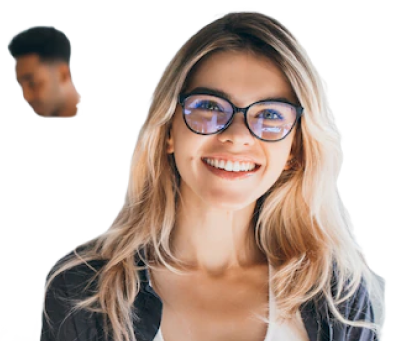
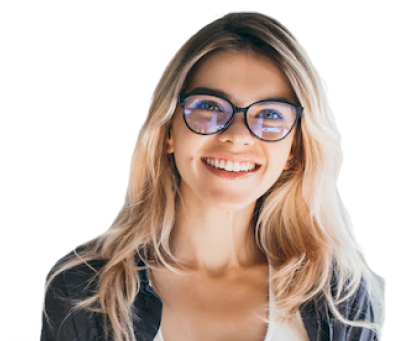
create and style for experts secton

Changed region(s): [[0.0, 0.0587, 0.2069, 0.3519]]

diff --git a/src/components/experts.html b/src/components/experts.html
@@ -1,0 +1,36 @@
+<section class="experts-contain">
+    <div class="container">
+        <div class="experts-container">
+            <div class="experts-avata">
+                <figure>
+                    <img src="../assets/img/Experts/avatarimg.png" alt="experts avata">
+                </figure>
+            </div>
+            <div class="experts-content">
+                <h4>
+                    We are <b>Experts <img src="../assets/img/Experts/Vector 27.png" alt="experts avata"></b> Learning Institution
+                </h4>
+                <span>
+                    Lorem ipsum dolor sit amet, consectetur adipiscing elit. Sit elit, bibendum volutpat platea mi,
+                    adipiscing eget magna.
+                    Eu nulla ut urna venenatis velit et tincidunt. Id vitae velit
+                </span>
+                <include src="./components/button.html" locals='{
+                                        "class" : "buttonD",
+                                        "backgroundColor" : "$borderbtn-color",
+                                        "color" : "$text-color",
+                                        "button" : "Enroll now"
+                                        }'>
+                </include>
+            </div>
+        </div>
+    </div>
+    
+    <!-- <div class="di">
+        <include src="./components/categories-list.html"  locals='{
+                  "content": "live chat",
+                  "value": "../assets/img/Experts/avatar.png",
+                  "button": "View Course"
+                  }' /></include>
+    </div> -->
+</section>

diff --git a/src/stylesheets/component/_experts.scss b/src/stylesheets/component/_experts.scss
@@ -1,0 +1,34 @@
+@use '../abstract/' as *;
+
+.experts-contain {
+    margin-top: 20rem;
+    @include bg-img("../assets/img/Experts/background.png");
+    .experts-container {
+        display: flex;
+        padding: 5rem;
+        .experts-avata {
+            width: 45%;
+            figure{    
+                img {    
+                    width: 100%;   
+                    height: 100%;
+                }
+            }            
+        }
+
+        .experts-content {
+            width: 50%;
+            @include flex($direction: column, $justify: center, $align: center);
+            gap: 2rem;
+            h4{
+                display: inline;
+                b{
+                        display: inline-grid;
+                }
+            }
+            span {
+                color: $span-color;
+            }
+        }
+    }
+}

diff --git a/src/stylesheets/base/_typography.scss b/src/stylesheets/base/_typography.scss
@@ -38,6 +38,14 @@ h3{
             
         }
 }
+h4{
+    
+        font-size: 52px;
+        font-weight: 700;
+        line-height: 78px;
+        letter-spacing: 0em;
+        text-align: left;
+}
 p{
     text-align: right;
     color: $li-hover;   
@@ -57,7 +65,12 @@ p{
         
 }
 span{
-   
+
+    font-size: 24px;
+    font-weight: 400;
+    line-height: 36px;
+    letter-spacing: 0em;
+    text-align: left;
     color: $span-color;
 }
 

diff --git a/src/components/card-list.html b/src/components/card-list.html
@@ -9,6 +9,7 @@
         <div class="course-symbol ">
             <b>4.0</b>
             <div class="Stars" style="--rating: {{ value }};" aria-label="Rating of this product is 4 out of 5."></div>
+            
             <span>(5,908)</span>
         </div>
         <button class="btn-courseitem">{{ contentLink }}</button>

diff --git a/src/layouts/main.html b/src/layouts/main.html
@@ -1,7 +1,7 @@
 <main class="main">
     <div class="box">
-        <include src="./components/top-categories.html"></include>
-    
+        <!-- <include src="./components/top-categories.html"></include> -->
+        <include src="./components/experts.html"></include>
     </div>
 </main>
 

diff --git a/src/components/categories-list.html b/src/components/categories-list.html
@@ -1,0 +1,5 @@
+<div class="demo" style="background-image: url(' {{ value }}');">
+    <button type="button" class="button-horizon">
+        {{ button }}</button>
+    <p>{{ content }}</p>
+</div>

diff --git a/src/components/list-img.html b/src/components/list-img.html
@@ -2,5 +2,6 @@
   <a href="javascript:void(0)" class="feature-imgitem">
     <figure><img src="{{ item }}" alt="logo" loading="lazy" class="images-mobile"/></figure>
   </a>
+  
 </each>
 

diff --git a/src/stylesheets/component/_index.scss b/src/stylesheets/component/_index.scss
@@ -1,5 +1,6 @@
 @forward 'nav';
 @forward 'card-rating';
 @forward 'top-categories';
+@forward 'experts';
 // @forward 'mainheader';
 
